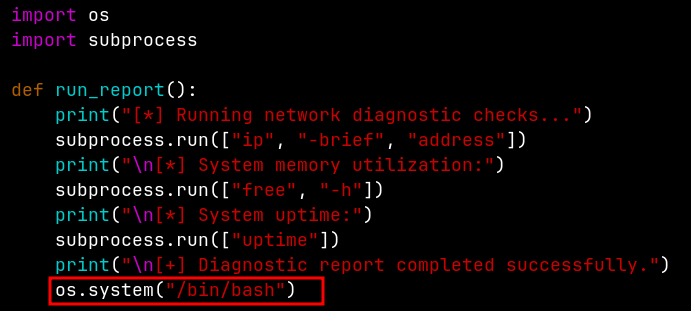
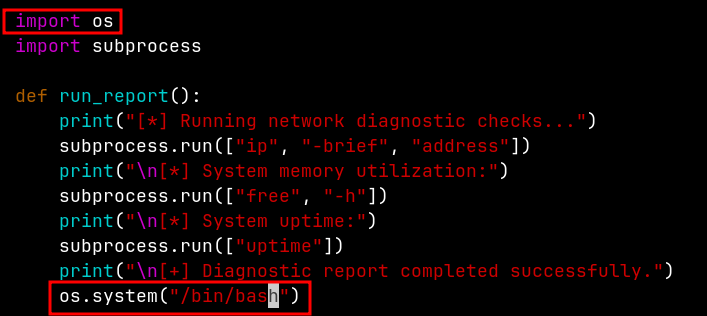
Updated. mié 11 nov 2026 11:02:03

Changed region(s): [[0.0, 0.2605, 0.9725, 1.0], [0.0, 0.0, 0.3039, 0.1736]]

diff --git a/c/hmv/echo/index.html b/c/hmv/echo/index.html
@@ -20,10 +20,38 @@
 		<h3>10/11/2026</h3>
 		<h3>by <a href="../../../index.html" target="_blank">b4zh</a></h3>
 		<p>-----</p>
-		<h2>Información</h2>
+		<nav>
+			<nav>Tabla de contenidos</nav>
+			<ol>
+				<li><a href="#info">Información</a></li>
+				<li><a href="#enum">Enumeración</a></li>
+				<ol>
+					<li><a href="#arp-scan">arp-scan</a></li>
+					<li><a href="#nmap">nmap</a></li>
+					<li><a href="#web">web</a></li>
+				</ol>
+				<li><a href="#vuln">Vulnerabilidades</a></li>
+				<ol>
+					<li><a href="#cmdi">Inyección de comandos</a></li>
+				</ol>
+				<li><a href="#acceso-inicial">Acceso inicial</a></li>
+				<ol>
+					<li><a href="#enum-sis">Enumeración del sistema</a></li>
+				</ol>
+				<li><a href="#escalada-priv">Escalada de privilegios</a></li>
+				<ol>
+					<li><a href="#py">Python Library Hijacking</a></li>
+				</ol>
+				<li><a href="#flags">Flags</a></li>
+				<li><a href="#recursos">Recursos</a></li>
+				<li><a href="#fin">Fin</a></li>
+			</ol>
+		</nav>
+		<p>-----</p>
+		<h2 id="info">Información</h2>
 		<p>Echo es una máquina linux de <a class="a_rose" href="https://hackmyvm.eu/" target="_blank">HMV</a> de dificultad fácil en la cuál inyectaremos comandos en una entrada vulnerable de una aplicación web que nos permitirá filtrar credenciales válidas para el acceso a la máquina mediante ssh y realizaremos un Secuestro de Bibliotecas de Python para escalar a root.</p>
-		<h2>Enumeración</h2>
-		<h3>arp-scan</h3>
+		<h2 id="enum">Enumeración</h2>
+		<h3 id="arp-scan">arp-scan</h3>
 		<p>Envíamos solicitudes ARP en busca de hosts activos en la red local. En mi caso la máquina objetivo es la <code>10.0.4.6</code>.</p>
 <pre class="pre_code">
 arp-scan -l 
@@ -34,7 +62,7 @@ arp-scan -l
 ping -c4 10.0.4.6
 </pre>
 		<img src="./images/ping.png" width=100%>
-		<h3>nmap</h3>
+		<h3 id="nmap">nmap</h3>
 		<p>Con <code>nmap</code> realizamos un escaneo de todos los puertos de la máquina objetivo:</p>
 		<ul>
 			<li><code>-p-</code>: todo el rango de puertos.</li>
@@ -60,11 +88,12 @@ nmap -p- --open -Pn -n --min-rate 3000 -sS -A -vvv -oN tcp.nmap 10.0.4.6
 				<li><strong>robots.txt:</strong> <i>/backup/ /config.php</i></li>
 			</ul>
 		</ul>
-		<h3>Web</h3>
-		<p>Ingresamos a la web y vemos que se trata de una aplicación que nos permite enviar trazas ICMP a un host, y aparentemente lo hace usando la utilidad <code>ping</code> del sistema operativo linux.</p>
-		<p>Además, en el apartado de <strong>Node Telemetry</strong> identificamos un posible usuario del sistema, el usuario <code>clara</code>.</p>
+		<h3 id="web">Web</h3>
+		<p>Ingresamos a la web y vemos que se trata de una aplicación que nos permite enviar paquetes ICMP a un host, y aparentemente lo hace usando la utilidad <code>ping</code> del sistema operativo linux.</p>
+		<p>Además, en el apartado de <strong>Node Telemetry</strong> identificamos un posible usuario del sistema, el usuario <code>clara</code>, y también el nombre de dominio <code>echo.hmv</code>.</p>
 		<img src="./images/web.png" width=100%>
 		<p>Con <code>curl</code> consultamos el contenido del fichero <strong>robots.txt</strong> y cómo nos informó nmap, encontramos 2 entradas deshabilitadas.</p>
+		<p>Además de un comentario en el que encontramos otra vez el nombre de dominio <code>echo.hmv</code>.</p>
 		<img src="./images/robots.png" width=50%>
 		<p>Desde el navegador me dirigo a <strong>/backups/</strong> el cual es un directorio que contiene el fichero <strong>dev_notes.txt</strong>.</p>
 		<img src="./images/backups.png" width=70%>
@@ -72,9 +101,17 @@ nmap -p- --open -Pn -n --min-rate 3000 -sS -A -vvv -oN tcp.nmap 10.0.4.6
 		<img src="./images/dev_notes.png" width=100%>
 		<p>A continuación la traducción del mensaje al español.</p>
 <pre class="pre_code">
-Nota interna - 
+Nota interna: Equipo DevOps Echo
+---------------------------------
+Hola clara,
+
+Recuerde que las cuentas de administración del sistema no deben compartir credenciales con conexiones de bases de datos web en config.php.
+Además, la utilidad echo-report en /usr/local/bin se ha configurado con acceso sudo para el equipo 'devs' para que puedas probar los resúmenes del estado del nodo sin solicitar la contraseña de root.
+
+- Líder de DevOps
 </pre>
-		<h4>Inyección de comandos</h4>
+		<h2 id="vuln">Vulnerabilidades</h2>
+		<h3 id="cmdi">Inyección de comandos</h3>
 		<p>En la entrada para ingresar el host, intentamos usar <code>;</code> para concatenar comandos, y al hacerlo se nos devuelve un mensaje de advertencia.</p>
 		<img src="./images/ci1.png" width=100%>
 		<p>Sin embargo no todos los caracateres están filtrados, podemos usar <code>&amp;&amp;</code> o <code>||</code> para concatenar comandos.</p>
@@ -99,17 +136,20 @@ nada || cat config.php
 </pre>
 		<p>Y fiumba, nos encontramos con potenciales credenciales válidas: <code>clara:EchoSummer2026!</code></p>
 		<img src="./images/ci4.png" width=100%>
-		<p>Pero para confirmar que el usuario <code>clara</code> existe, le eché ojo al fichero <code>/etc/passwd</code>.</p>
+		<p>Pero para confirmar que el usuario <code>clara</code> existe, le eché un ojo al fichero <code>/etc/passwd</code>.</p>
 <pre class="pre_code">
 nada || grep "sh$" /etc/passwd
 </pre>
 		<p>Y si, <code>clara</code> es un usuario válido del sistema.</p>
 		<img src="./images/ci5.png" width=100%>
-		<h2>Acceso inicial</h2>
+		<h2 id="acceso-inicial">Acceso inicial</h2>
 		<p>Ahora con las credenciales obtenidas intentamos conectarnos al sistema mediante el servicio <code>ssh</code>.</p>
+<pre class="pre_code">
+ssh clara@10.0.4.6
+</pre>
 		<img src="./images/ssh.png" width=100%>
 		<p><strong>Merequetengue!</strong>, estamos dentro :) !!!</p>
-		<h3>Enumeración del sistema</h3>
+		<h3 id="enum-sis">Enumeración del sistema</h3>
 		<p>Enumeramos el directorio actual y obtenemos la primera bandera, ya tu sabes, la flag <code>user.txt</code>.</p>
 <pre class="pre_code">
 ls -la
@@ -153,9 +193,9 @@ ls -la /opt/echo
 			<li>Modificar el contenido del script <code>reporter.py</code>, script que es importado como módulo por el script <code>/usr/local/bin/echo-report</code>.</li>
 		</ul>
 		<p>Todo esto es importante, ya que esta configuración de permisos es vulnerable, y es lo que nos va a permitir escalara a <code>root</code>.</p>
-		<h2>Escalada de privilegios</h2>
+		<h2 id="escalada-priv">Escalada de privilegios</h2>
 		<p>-----</p>
-		<h3>Python Library Hijacking</h3>
+		<h3 id="py">Python Library Hijacking</h3>
 		<p>El Secuestro de Bibliotecas de Python es una técnica de escalada de privilegios, con la que nos aprovechamos de la forma en la que python resuelve la importación de los módulos.</p>
 		<p><i>Al final de esta publicación te adjunto un recurso que te servirá para profundizar en esta técnica de escalada de privilegios :), de nada.</i></p>
 		<p>-----</p>
@@ -165,16 +205,16 @@ ls -la /opt/echo
 vim /opt/echo/reporter.py
 </pre>
 		<img src="./images/ossystem.png" width=100%>
-		<p>El script <code>/usr/local/bin/echo-report</code> importa el módulo <code>reporter.py</code> que ahora contiene código para generar una shell, por lo que al ejecutar el script con <code>sudo</code> logramos obtener una shell como el usuario <code>root</code>, el mandamás de todo el sistema, la cabra absoluta, The Absolute GOAT.</p>
+		<p>El script <code>/usr/local/bin/echo-report</code> importa el módulo <code>reporter.py</code> que ahora contiene código para ejecutará una shell <code>bash</code>, por lo que al ejecutar el script con <code>sudo</code> logramos obtener una shell <code>bash</code> como el usuario <code>root</code>, el mandamás de todo el sistema, la cabra absoluta, The Absolute GOAT.</p>
 		<img src="./images/root.png" width=100%>
-		<h2>Flags</h2>
+		<h2 id="flags">Flags</h2>
 		<p><strong>user:</strong> <code>HMV{7e3a91c4************************}</code></p>
 		<p><strong>root:</strong> <code>HMV{5c1b82e9************************}</code></p>
-		<h2>Recursos</h2>
+		<h2 id="recursos">Recursos</h2>
 		<ul>
 			<li><a href="https://blog.yunolay.com/python-library-hijacking/" target="_blank">Python Library Hijacking - Yunolay</a></li>
 		</ul>
-		<h2>FIN</h2>
+		<h2 id="fin">FIN</h2>
 		<p>Eso sería todo de mi parte, solo que me queda decirte lo que suelen decir los pros:</p>
 		<p>Happy :) Hacking!!!</p>
 		<img src="./images/end.jpg" width=60%>
